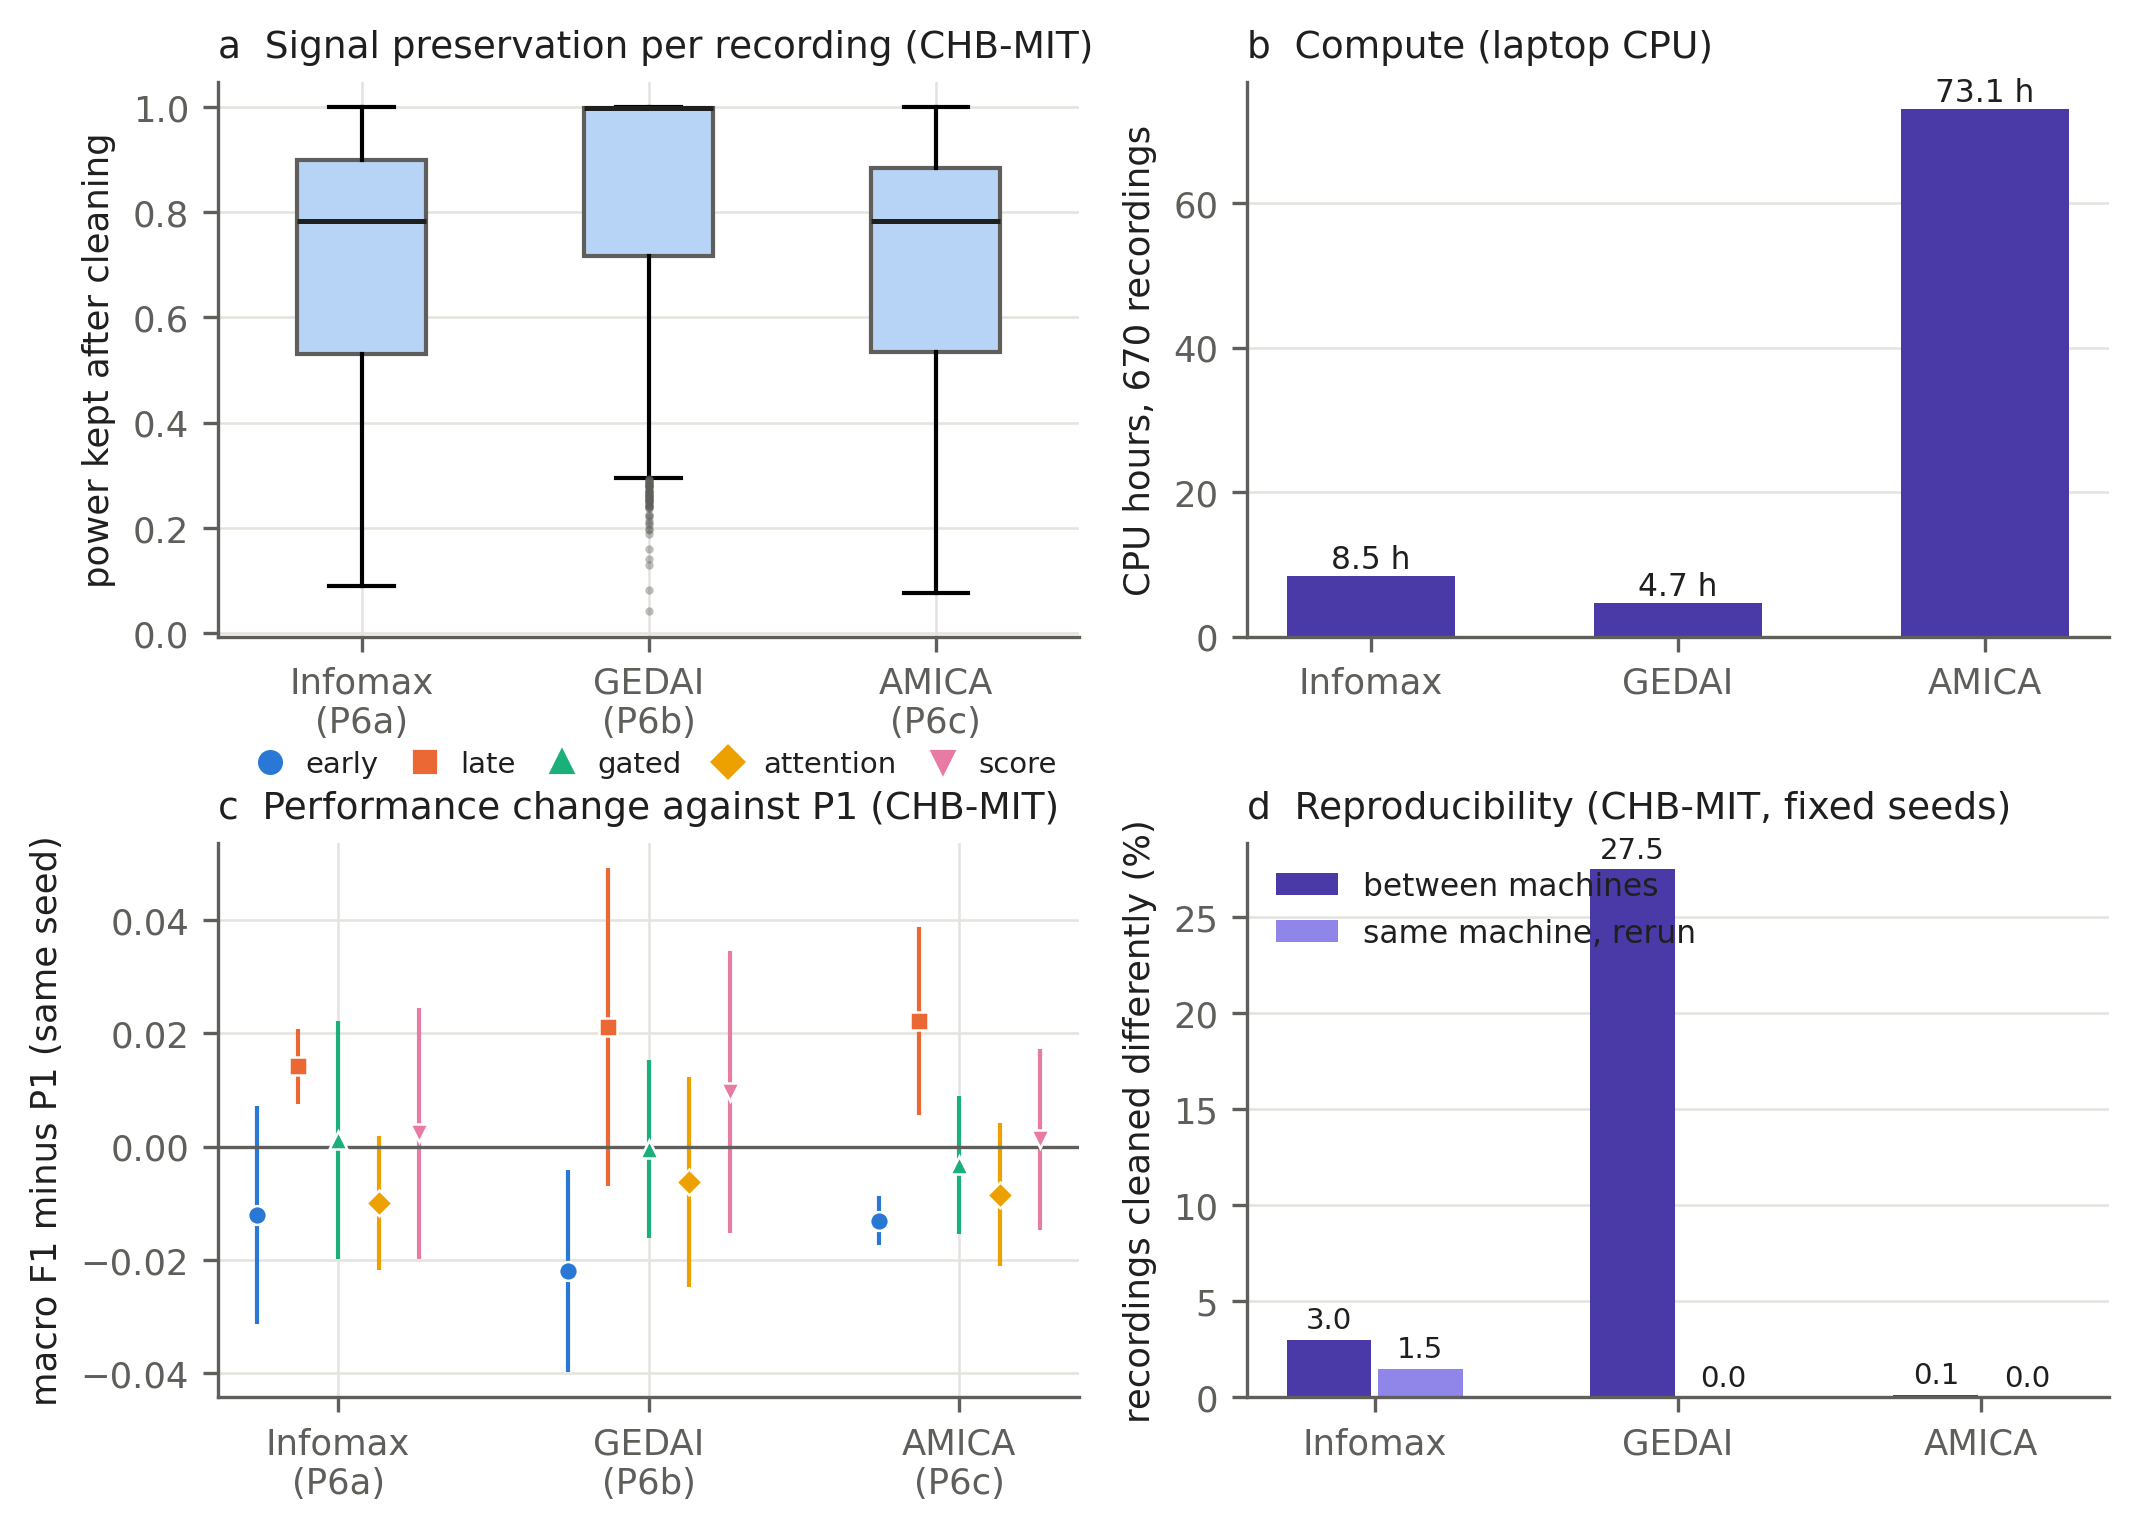
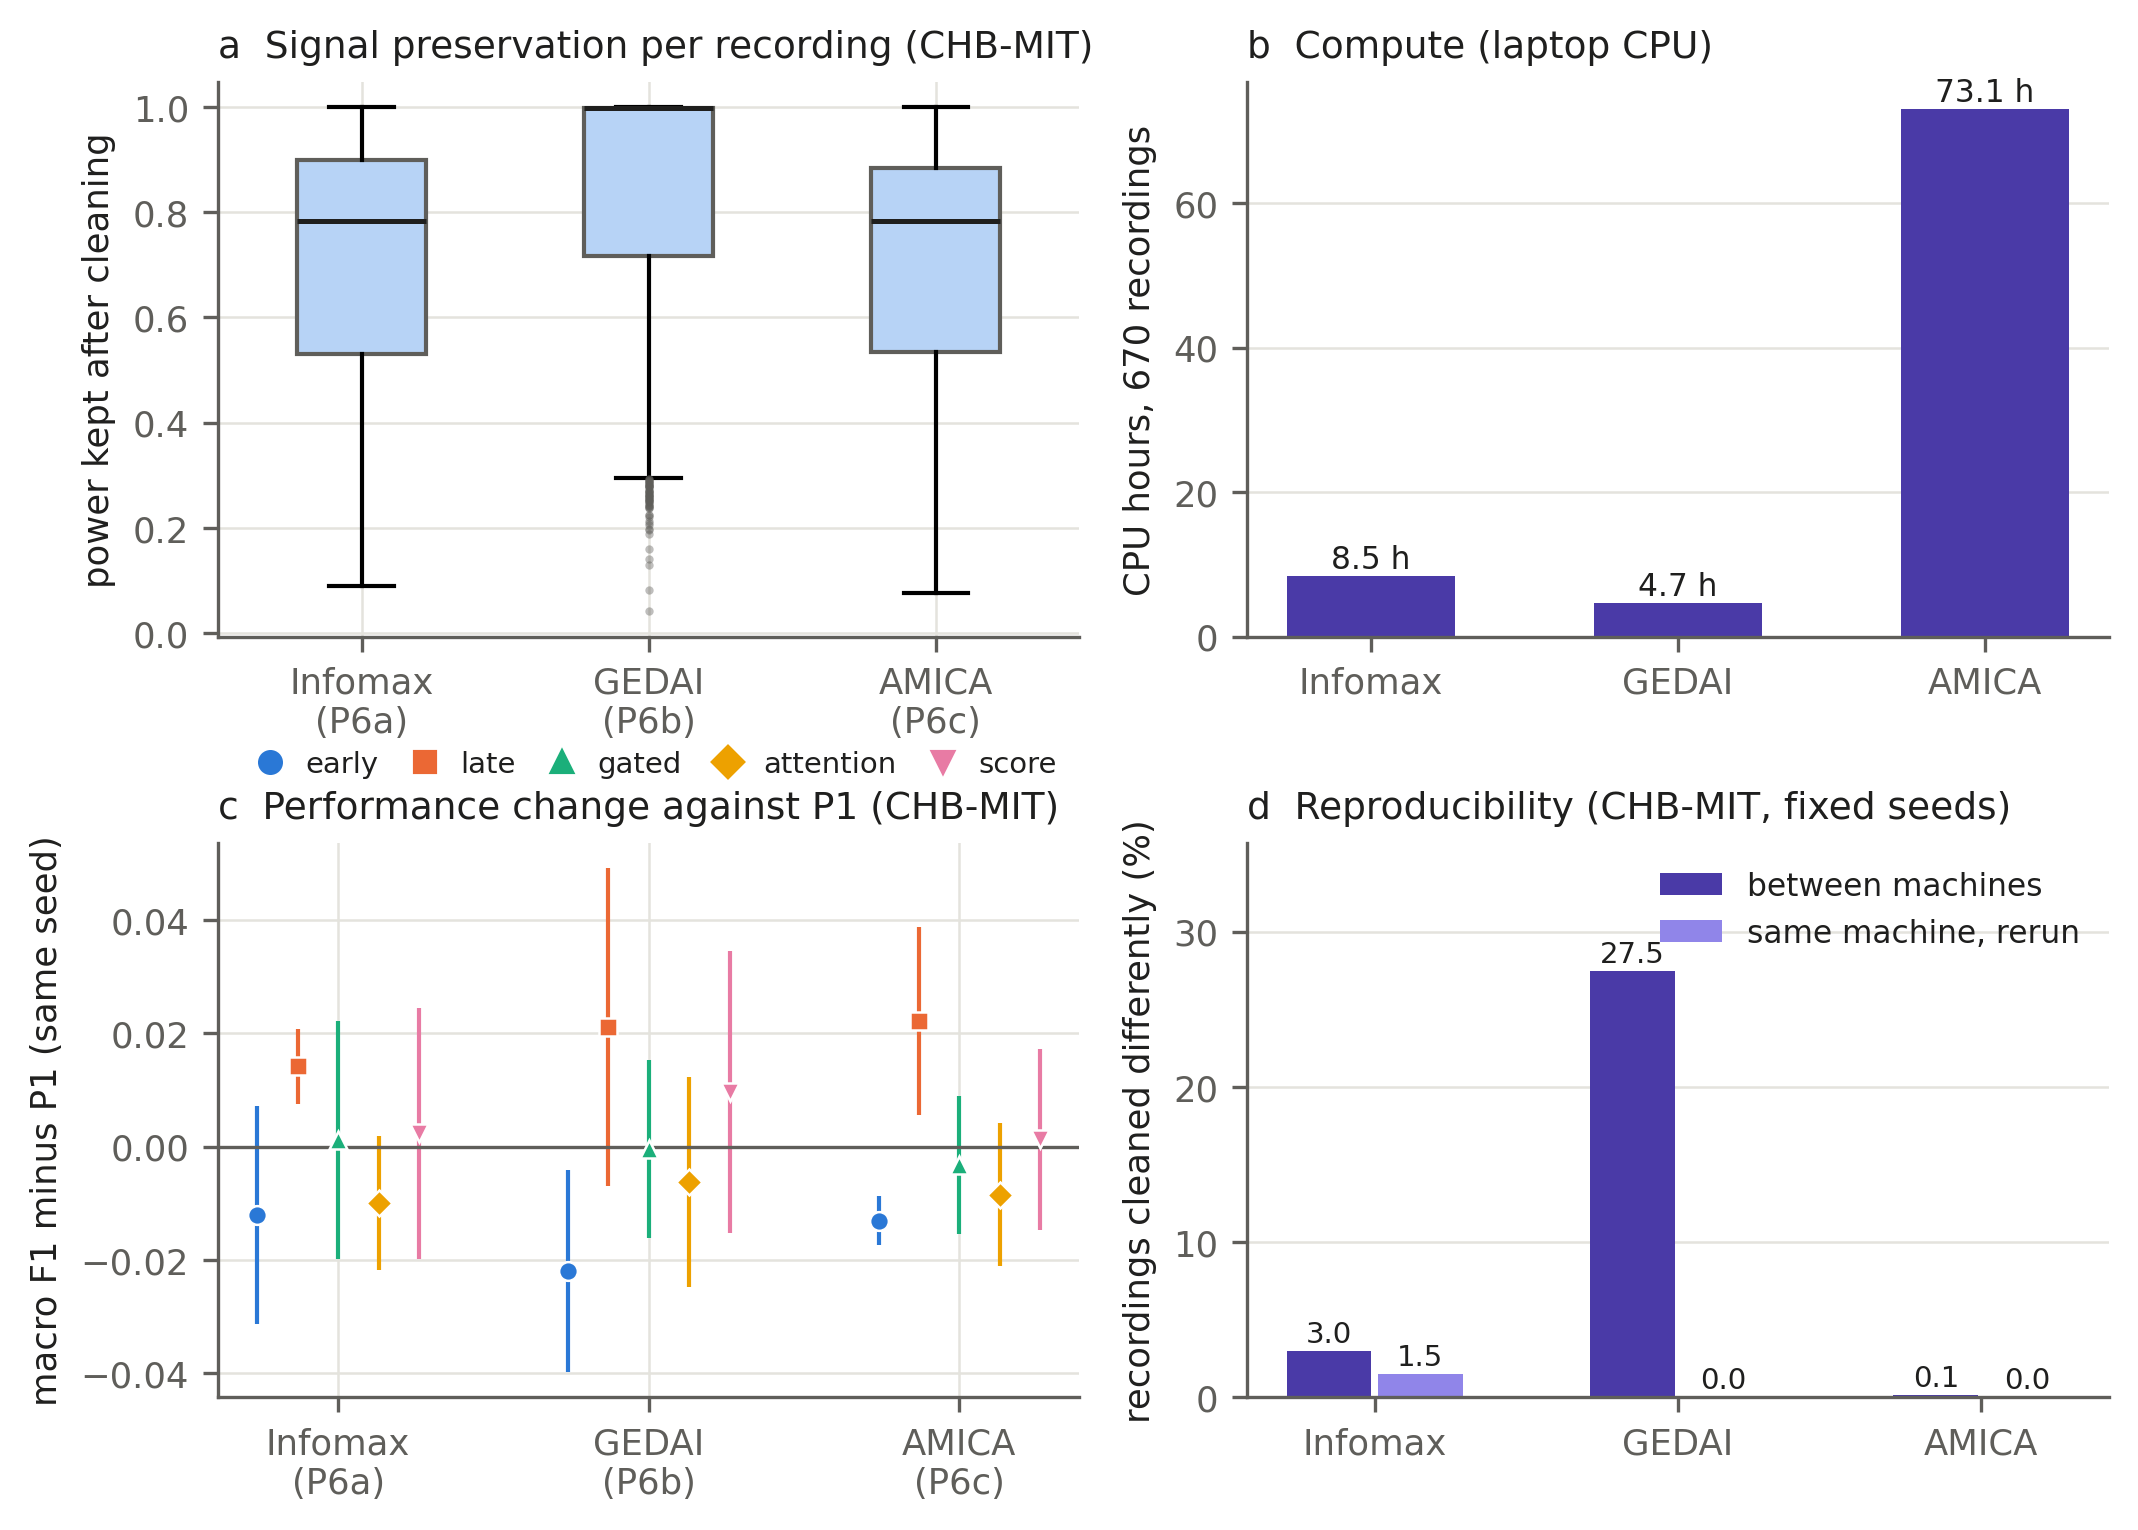
Figure 5d: legend no longer overlaps the GEDAI bar

diff --git a/src/make_figures.py b/src/make_figures.py
@@ -316,7 +316,9 @@ def figure5(data: dict) -> None:
         ax.set_xticks(range(3), [l for _, _, l in meth])
         ax.set_ylabel("recordings cleaned differently (%)")
         ax.set_title("d  Reproducibility (CHB-MIT, fixed seeds)", loc="left")
-        ax.legend(fontsize=7.5, loc="upper left")
+        ax.set_ylim(0, 1.3 * 100 * t.share.max())
+        # upper right sits above AMICA's near-zero bars, clear of GEDAI's tall one
+        ax.legend(fontsize=7.5, loc="upper right", frameon=False)
         ax.grid(axis="x", visible=False)
     fig.tight_layout()
     from matplotlib.lines import Line2D
